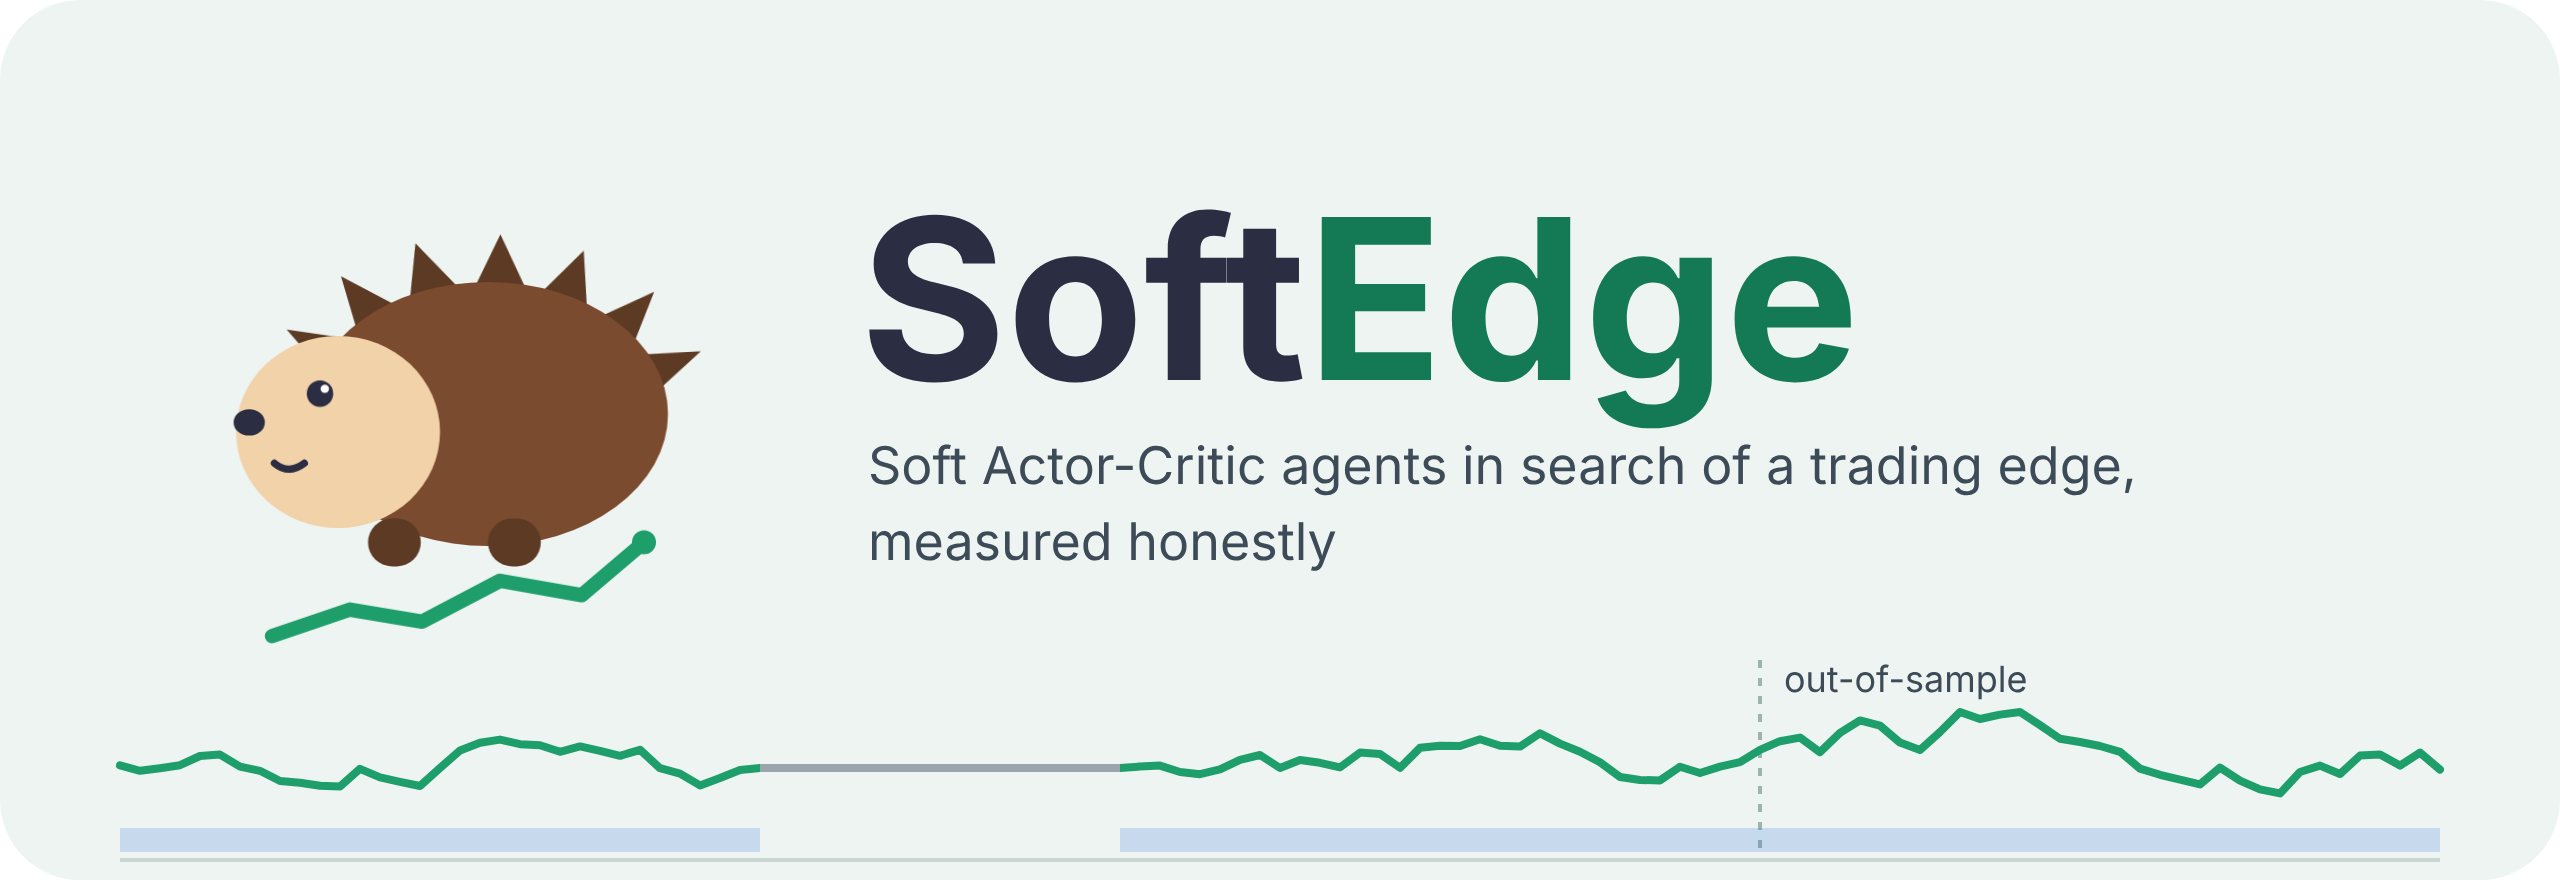
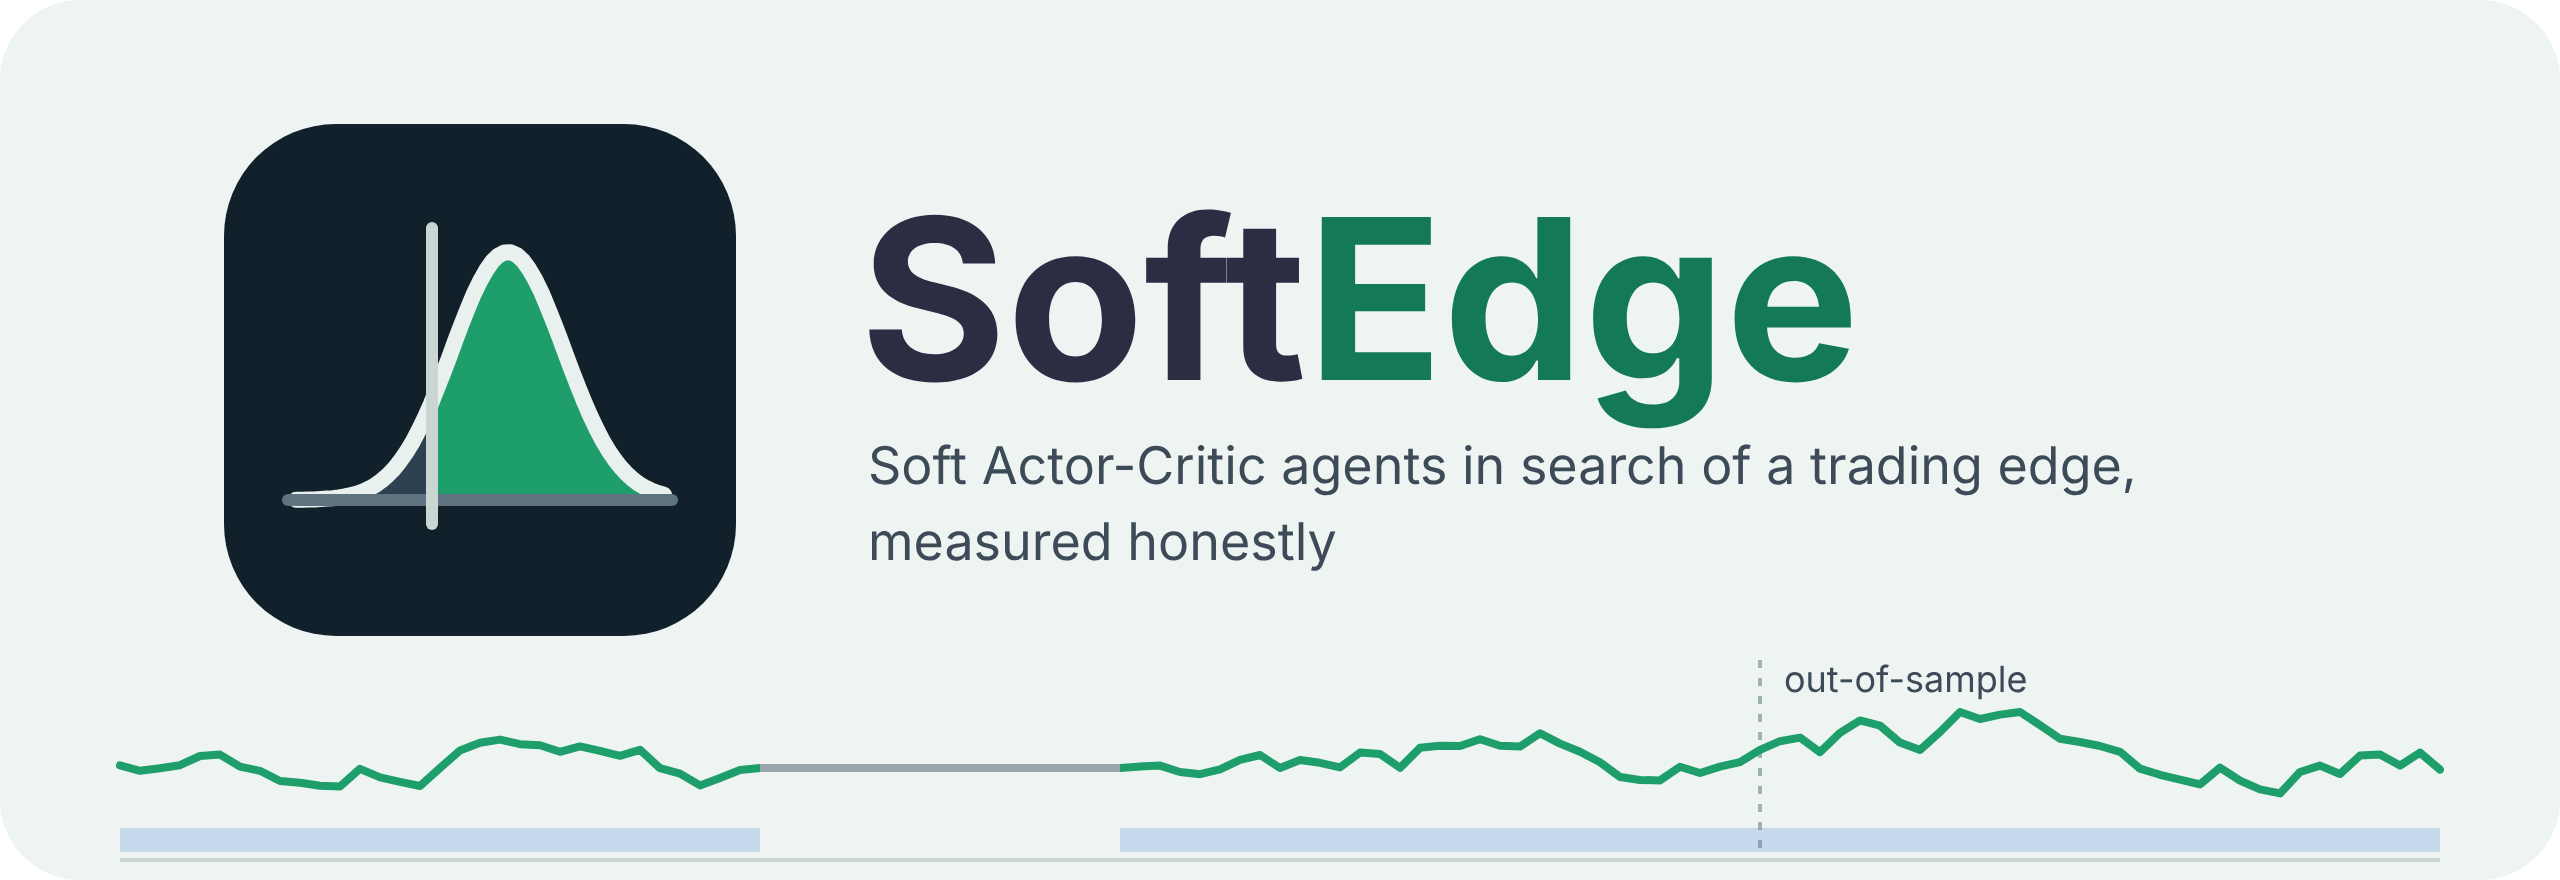
Replace the mascot with a policy-distribution mark
The logo, banner, hero and social preview now show the agent's Gaussian
policy over positions, with the long-side mass shaded as the edge. In the
hero the policy slides back to zero while the agent stays flat.

Changed region(s): [[0.0625, 0.1227, 0.3125, 0.7364]]

diff --git a/README.md b/README.md
@@ -1,5 +1,5 @@
 <p align="center">
-  <img src="assets/hero.gif" alt="SoftEdge: Soft Actor-Critic agents in search of a trading edge, measured honestly. Edgar the hedgehog walks along a price line, stays flat where there is no edge, and trades the out-of-sample window." width="100%">
+  <img src="assets/hero.gif" alt="SoftEdge: Soft Actor-Critic agents in search of a trading edge, measured honestly. The logo is the agent's Gaussian policy over positions; it slides back to zero when there is no edge, while a price line shows the agent staying flat and then trading the out-of-sample window." width="100%">
 </p>
 
 <p align="center">
@@ -31,12 +31,6 @@ trading costs, and is discounted for every variant we tried.
 The agent is a **Soft Actor-Critic (SAC)**, a widely used deep reinforcement-learning method,
 updated with ideas from 2024-2026 research. It trades crypto, crypto carry trades, forex, stock
 indices, oil, Treasuries and prediction markets, all from free public data.
-
-<p align="center">
-  <img src="assets/png/mascot.png" alt="Edgar the hedgehog, the SoftEdge mascot" width="140">
-  <img src="assets/png/mascot-curled.png" alt="Edgar curled up: no edge, no position" width="140">
-  <br><em>Meet Edgar. Hedgehogs hedge. When the tests find no edge, Edgar curls up and holds no position.</em>
-</p>
 
 ## What we found so far
 

diff --git a/assets/README.md b/assets/README.md
@@ -1,8 +1,15 @@
 # Brand assets
 
-Edgar is the SoftEdge mascot, a hedgehog. All files here are MIT licensed, like the code.
+All files here are MIT licensed, like the code.
 
-- `mascot.svg`: Edgar standing, with a rising line for an edge.
-- `mascot-curled.svg`: Edgar curled into a ball, with a flat line for no edge.
-- `logo.svg`: Edgar's head in a circle, for icons down to 32 px.
-- `banner.svg`: logo, wordmark and tagline for the repository header. It has its own background, so it reads on light and dark GitHub themes.
+The SoftEdge mark is the agent's policy: a Gaussian over target positions, with a vertical line
+at zero. The green area is the probability of holding a long position, the edge the agent thinks
+it has. When the evidence is weak the policy moves back to zero and the agent stays flat.
+
+- `logo.svg`: the mark on a dark tile, for icons down to 32 px.
+- `banner.svg`: mark, wordmark and tagline for the repository header. It has its own background, so it reads on light and dark GitHub themes.
+- `hero.svg`: the animated README header; `hero.gif` and `hero.png` are its renderings
+  (`scripts/render_hero.mjs`).
+- `png/`: 2x PNG renderings of the static SVGs, for viewers that do not draw SVG
+  (`scripts/render_assets.mjs`).
+- `social-preview.png`: the 1280x640 image GitHub shows in link previews.

diff --git a/docs/README.md b/docs/README.md
@@ -1,8 +1,8 @@
 # SoftEdge documentation
 
 SoftEdge asks whether a Soft Actor-Critic agent can find a trading edge that holds up on data it
-never trained on. The [project README](../README.md) gives the overview. Edgar, the project hedgehog,
-stays curled up flat when the validation gate finds no edge, and walks out when there is one.
+never trained on. The [project README](../README.md) gives the overview.
+When the validation gate finds no edge, the agent stays flat.
 
 ## Pages
 
